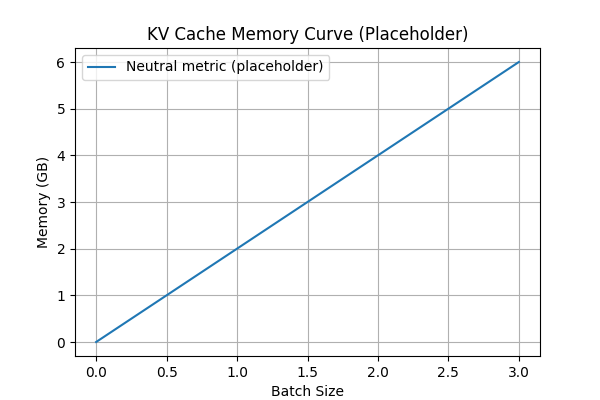
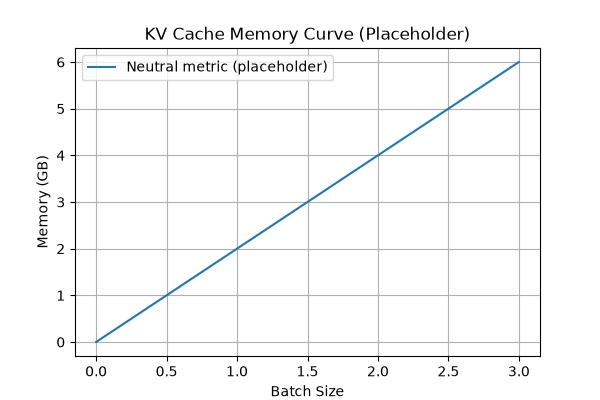
Add reproducible figure generation validation hook

diff --git a/scripts/validate_repo.py b/scripts/validate_repo.py
@@ -349,11 +349,34 @@ def validate_citations(root_path: Path = ROOT) -> None:
                     fail(f"Referenced source file {source_id}.md does not exist in ledger repository")
 
 
+def validate_figure_generation() -> None:
+    output_file = ROOT / "figures" / "kv_cache_memory_curve.png"
+    if output_file.is_file():
+        output_file.unlink()
+        
+    sys.path.insert(0, str(ROOT / "figures"))
+    try:
+        import generate_figures
+        # Reload if already imported
+        import importlib
+        importlib.reload(generate_figures)
+        generate_figures.main()
+    except Exception as e:
+        fail(f"Failed to execute figures/generate_figures.py: {e}")
+    finally:
+        if str(ROOT / "figures") in sys.path:
+            sys.path.remove(str(ROOT / "figures"))
+        
+    if not output_file.is_file():
+        fail("figures/generate_figures.py failed to produce figures/kv_cache_memory_curve.png")
+
+
 def run_validate() -> None:
     validate_required_paths()
     validate_foundation_files()
     validate_section_stubs()
     validate_citations()
+    validate_figure_generation()
 
 
 def run_lint() -> None:
